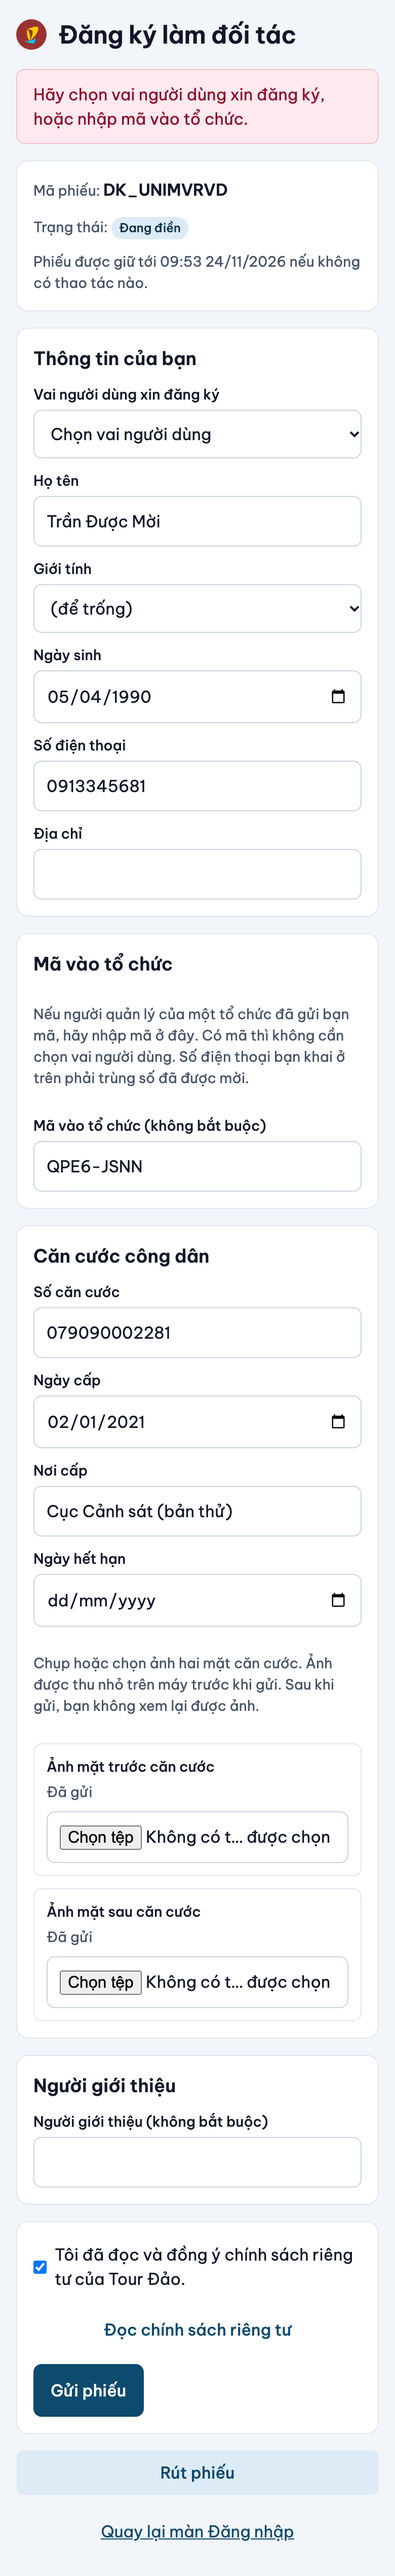
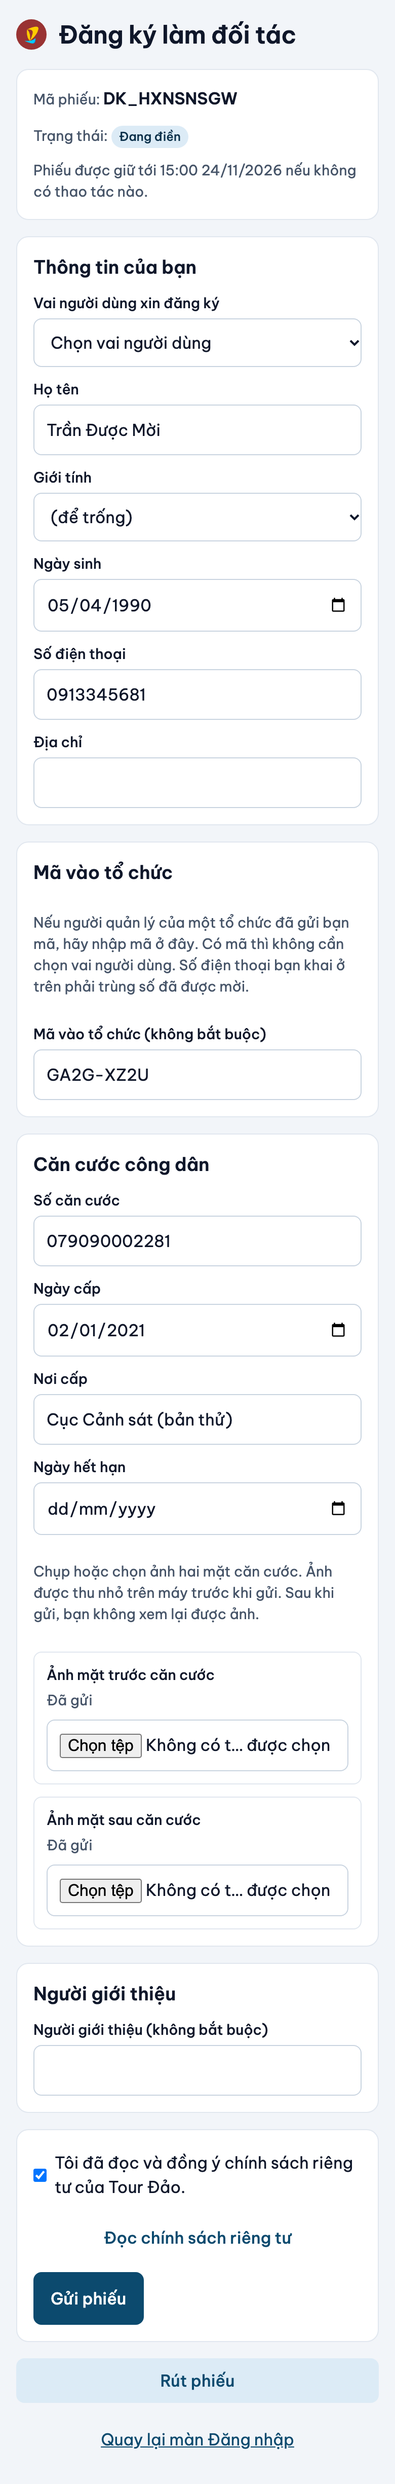
Trang đăng ký: dòng nhắc chọn vai hoặc nhập mã tự tắt khi gõ mã vào tổ chức; kịch bản Chrome canh bước đó; mục nhật ký 3.16 (số tạm)
Kịch bản to-chuc-b2-smoke.mjs chạy lại 22/22 ở 390 và 1280; cập nhật ảnh b2-dang-ky-ma-vao-390.

diff --git a/web/dang-ky.ts b/web/dang-ky.ts
@@ -36,6 +36,7 @@ async function goiDk<T>(duong: string, method = "GET", than?: unknown, henGioMs?
 const loiEl = byId("dk-loi");
 const baoEl = byId("dk-bao");
 const goc = byId("dk-goc");
+const CAU_CHON_VAI = "Hãy chọn vai người dùng xin đăng ký, hoặc nhập mã vào tổ chức.";
 const hienLoi = (m: string | null) => { loiEl.hidden = m === null; loiEl.textContent = m ?? ""; };
 const hienBao = (m: string | null) => { baoEl.hidden = m === null; baoEl.textContent = m ?? ""; };
 const cauCua = (e: unknown) => (e instanceof Loi ? e.message : CAU_MANG);
@@ -286,6 +287,11 @@ function veBieuMau(p: PhieuDangKyDto): void {
     khuToChuc.push(h("section", { class: "the dk-buoc", "data-khu": khu }, h("h2", null, TIEU_DE_KHU_TO_CHUC[khu]), ...dsO, maAnh === "GPKD" ? h("p", { class: "muted" }, CHU_DANG_KY.giaiThichAnhToChuc) : null, anh?.el ?? null));
   }
   capNhatHien();
+  // Câu «Hãy chọn vai… hoặc nhập mã» hết đúng khi ô mã có chữ: tắt ngay, không đợi bấm gửi lại.
+  // Nghe ở khung gốc vì ô mã dựng SAU đoạn này (khuO("maVao") nằm ở replaceChildren bên dưới).
+  goc.addEventListener("input", () => {
+    if (loiEl.textContent === CAU_CHON_VAI && oCuaKhu("CA_NHAN", "maVao").some((m) => oVao.get(m.khoa)?.value.trim())) hienLoi(null);
+  });
   const phanToChuc = h("div", { id: "dk-phan-to-chuc", hidden: !(congTac?.checked ?? false) },
     h("section", { class: "the dk-buoc" }, o(CHU_DANG_KY.nhanVaiToChuc, chonVaiTc)), ...khuToChuc);
   // Tắt công tắc khi còn ảnh tổ chức: hỏi một lần rồi gỡ ảnh (nếu không, máy chủ không cho gửi — `org_photo_without_org`).
@@ -307,7 +313,7 @@ function veBieuMau(p: PhieuDangKyDto): void {
 
   const gui = nut(p.phienBan > 0 ? h("button", B("chinh", { id: "dk-gui-phieu", "data-co": "lon" }), "Gửi lại") as HTMLButtonElement : h("button", B("chinh", { id: "dk-gui-phieu", "data-co": "lon" }), "Gửi phiếu") as HTMLButtonElement, () => void bamNutDk(gui, async () => {
     // ADR-0213 Đ7.5: mã vào tổ chức thay mục «vai» — có mã thì không đòi vai ở trình duyệt (máy chủ vẫn kiểm mã).
-    if (!chonVai.value && !toChucBat() && !oCuaKhu("CA_NHAN", "maVao").some((m) => oVao.get(m.khoa)?.value.trim())) { hienLoi("Hãy chọn vai người dùng xin đăng ký, hoặc nhập mã vào tổ chức."); return; }
+    if (!chonVai.value && !toChucBat() && !oCuaKhu("CA_NHAN", "maVao").some((m) => oVao.get(m.khoa)?.value.trim())) { hienLoi(CAU_CHON_VAI); return; }
     if (toChucBat() && !chonVaiTc.value) { hienLoi(CHU_DANG_KY.hayChonVaiToChuc); return; }
     if (cauHinh.chinhSachRiengTu === null) { hienLoi("Chưa có chính sách riêng tư nên chưa gửi được thông tin. Hãy quay lại sau."); return; }
     if (!dongY.checked) { hienLoi("Bạn cần đọc và đồng ý chính sách riêng tư hiện hành trước khi gửi."); return; }

diff --git a/src/shared/changelog.ts b/src/shared/changelog.ts
@@ -17,6 +17,14 @@ export interface ReleaseNote { readonly version: string; readonly date: string; 
 /** Mới nhất ở ĐẦU. */
 export const CHANGELOG: readonly ReleaseNote[] = [
   {
+    // Sau nghiệm thu đợt 2 đăng ký (không migration): sửa dòng báo ở trang đăng ký. SỐ TẠM 3.16: bước A.0 đặt lại số và ngày nếu nhánh khác nhập trước.
+    version: "3.16",
+    date: "2026-11-17",
+    items: [
+      { kind: "sua", text: "Trang đăng ký: dòng nhắc «Hãy chọn vai… hoặc nhập mã vào tổ chức» tự tắt ngay khi bạn gõ mã vào tổ chức." },
+    ],
+  },
+  {
     // Đăng ký đối tác đợt 2 (ADR-0212, ADR-0213; migration 0174, 0175, 0176; nhánh claude/account-signup-approval-flow-ee612c): chủ chốt 17/11 «Gộp cả ba»
     // — lần A (phiếu có phần tổ chức), B1 (người quản lý tổ chức, tư cách theo đơn), B2 (lời mời, thành viên) lên CÙNG một lần phát hành, sau 3.13 và 3.14 trên main.
     // Phần tổ chức của phiếu ẨN cho tới khi chủ đăng chính sách riêng tư có ô «Thu thông tin tổ chức» (văn bản: PHAN-THEM-TO-CHUC.md, cần luật sư).
